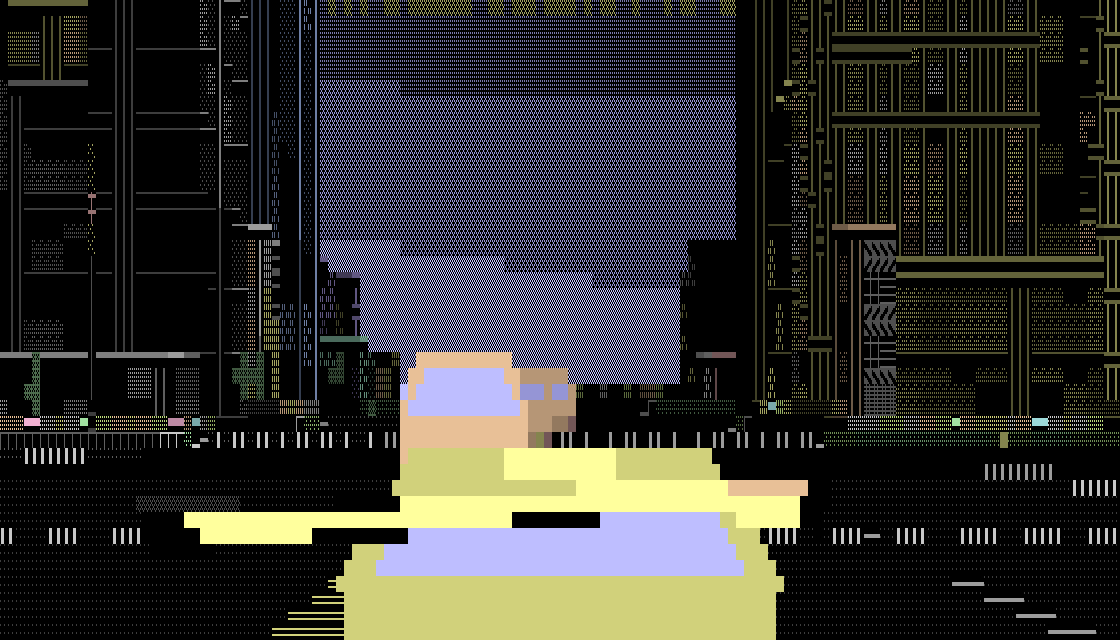
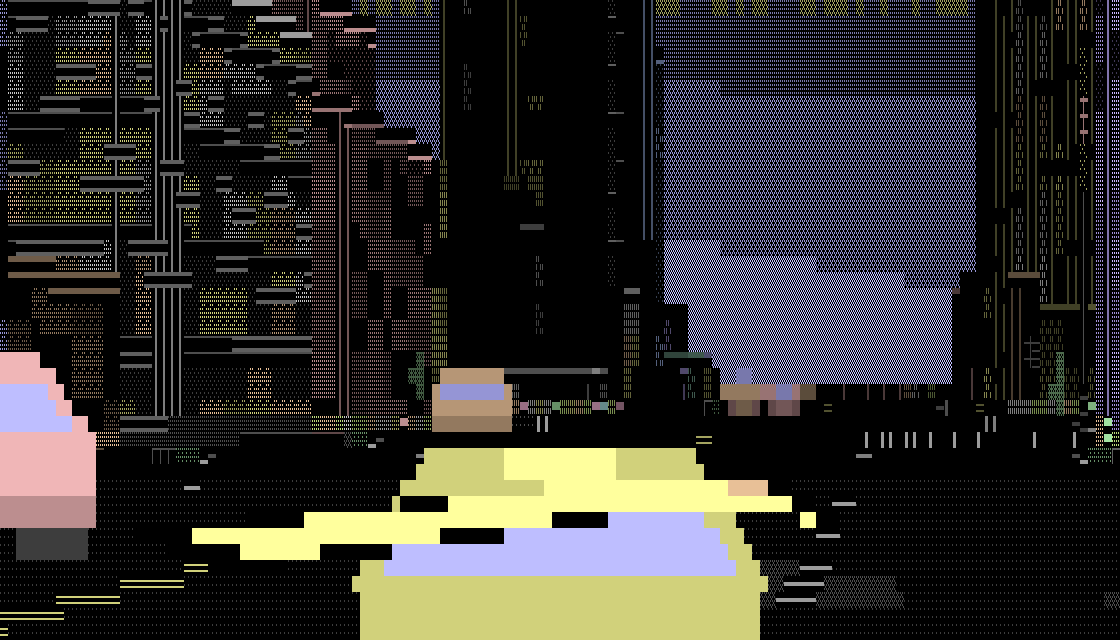
The next fare is at least a block away
It was four cells, which is the length of two cars: the circle for the next
job appeared on the pavement the cab was already stopped at, and the whole
job was "turn round".  It is a block now - `zone::BLOCK_PITCH`, the nominal
road-to-road spacing - and the drop-off is a block from the *pickup* rather
than from the cab, because both being far from the cab says nothing about
them being far from each other.

The range is checked after the spot is snapped to the pedestrian network
rather than before.  The snap moves a point by up to six cells and moves it
towards walkable ground rather than away from the cab, so two fares in sixty
landed inside the minimum that way.

AND IT COST THE AUTOPILOT ALL BUT ONE OF ITS FARES

Longer fares meant longer routes, and longer routes exposed something that
had been invisible.  A plan was thrown away whenever the car strayed three
cells from it - and the cab now pulls out to pass things, which is a lane's
width.  So every overtake invalidated the plan, the route was rebuilt from
wherever the car had swerved to, and a breadth-first search asked the same
question from two slightly different places answers it two different ways.

The cab wandered.  Measured on one city: 921 cells driven, 8,799 of 9,000
ticks spent travelling, and one completed fare in five minutes.  Found by
ablation - with the dodge switched off it managed six - which is the only
way I would have found it, because every part of it works.
[…]

diff --git a/crates/ascitty-core/src/sim.rs b/crates/ascitty-core/src/sim.rs
@@ -63,6 +63,25 @@ pub const TRAFFIC: usize = 12;
 pub const PEDS: usize = 48;
 /// Beyond this many cells, a pooled actor is recycled somewhere nearer.
 pub const RECYCLE: i32 = 34;
+/// How near the cab the next fare may be waiting, in cells.
+///
+/// A block.  It was four cells - the length of two cars - which puts the
+/// circle for the next job on the pavement you are already stopped at, so
+/// the whole job is "turn round".  A fare is somewhere you have to *drive*
+/// to, and the shortest distance that means anything on this grid is one
+/// block: [`crate::zone::BLOCK_PITCH`] is the nominal road-to-road spacing,
+/// an eight-cell block with a pavement each side and a road.
+pub const HAIL_NEAR: i32 = crate::zone::BLOCK_PITCH as i32;
+/// And how far, so the pickup is a short drive rather than a trek.
+pub const HAIL_FAR: i32 = HAIL_NEAR * 2;
+/// How far the drop-off has to be from the pickup, in cells.
+///
+/// A block again, and measured from the *pickup* rather than from the cab -
+/// which is the distance the passenger is paying for.  Both being far from
+/// the cab says nothing about them being far from each other: a pickup a
+/// block north and a drop-off a block and a half north is a fare of four
+/// cells.
+pub const FARE_MIN: i32 = HAIL_NEAR;
 /// Seconds on the clock at the start of a shift.
 pub const START_TIME: i32 = 60;
 /// Seconds a coin is worth.
@@ -521,6 +540,14 @@ impl Sim {
             // a pavement outright do miss - measured, often enough that the
             // fallback below was placing dropoffs in the middle of avenues.
             let Some((px, py)) = city.walk.nearest(x, y, 6) else { continue };
+            // The snap can pull the spot back towards the cab - up to six
+            // cells of it - so the range has to be checked *after* it and
+            // not before.  Two fares in sixty landed inside the minimum
+            // that way, which is the one place a player would notice: the
+            // circle for the next job on the pavement they are stopped at.
+            if (px - tx).abs() + (py - ty).abs() < min {
+                continue;
+            }
             // On the walking network *and* off the carriageway.  The two are
             // not the same test: an alley is road with no pavement beside
             // it, so people walk down the middle of one and it is marked
@@ -701,7 +728,7 @@ impl Sim {
     /// car can actually be; the coins are strung between those two, since
     /// they are collected by driving over them.
     pub fn hail(&mut self, city: &City) {
-        let (from, from_stop) = match self.kerb_near(city, 4, 14) {
+        let (from, from_stop) = match self.kerb_near(city, HAIL_NEAR, HAIL_FAR) {
             Some(v) => v,
             // Nowhere to stand within reach: rather than leave the shift
             // with no job at all, take any road cell.  The next tick tries
@@ -711,9 +738,23 @@ impl Sim {
                 None => return,
             },
         };
-        let (to, to_stop) = match self.kerb_near(city, 18, RECYCLE) {
+        // The drop-off, at least a block from the pickup as well as from the
+        // cab.  Several tries, because the constraint is on a pair and the
+        // dart only knows about one of them; the last candidate is kept if
+        // none of them is far enough, since a short fare is better than no
+        // fare.
+        let mut far = None;
+        for _ in 0..8 {
+            let Some(v) = self.kerb_near(city, HAIL_NEAR * 2, RECYCLE) else { break };
+            let d = (v.0 .0 - from.0).abs() + (v.0 .1 - from.1).abs();
+            far = Some(v);
+            if d >= FARE_MIN {
+                break;
+            }
+        }
+        let (to, to_stop) = match far {
             Some(v) => v,
-            None => match self.road_near(city, 18, RECYCLE) {
+            None => match self.road_near(city, HAIL_NEAR * 2, RECYCLE) {
                 Some(c) => (c, c),
                 None => return,
             },
@@ -2028,6 +2069,40 @@ mod tests {
                     "seed {seed}: a cab at the kerb cannot reach the passenger"
                 );
             }
+        }
+    }
+
+    /// A fare is somewhere you have to drive to.
+    ///
+    /// The pickup is at least a block from where the cab is standing, and
+    /// the drop-off at least a block from the pickup - the second measured
+    /// from the *pickup*, because that is the distance the passenger is
+    /// paying for and two places can both be far from the cab and next door
+    /// to each other.
+    #[test]
+    fn the_next_fare_is_at_least_a_block_away() {
+        for seed in [1u32, 7, 99, 4242] {
+            let city = City::generate(seed);
+            let mut sim = Sim::new(&city, seed);
+            let (mut near_cab, mut short_fare) = (0, 0);
+            for _ in 0..60 {
+                sim.hail(&city);
+                let fare = sim.fare.as_ref().expect("no fare");
+                let cab = (fixed::floor(sim.taxi.x), fixed::floor(sim.taxi.y));
+                let at = (fixed::floor(fare.from.0), fixed::floor(fare.from.1));
+                let to = (fixed::floor(fare.to.0), fixed::floor(fare.to.1));
+                if (at.0 - cab.0).abs() + (at.1 - cab.1).abs() < HAIL_NEAR {
+                    near_cab += 1;
+                }
+                if (to.0 - at.0).abs() + (to.1 - at.1).abs() < FARE_MIN {
+                    short_fare += 1;
+                }
+            }
+            // The pickup is a hard floor - it is what the dart is thrown at.
+            assert_eq!(near_cab, 0, "seed {seed}: {near_cab} fares within a block of the cab");
+            // The pair is a preference: eight tries at it, and a short fare
+            // is better than none.  Measured at zero on all four cities.
+            assert!(short_fare < 4, "seed {seed}: {short_fare} of 60 fares were shorter than a block");
         }
     }
 

diff --git a/crates/ascitty-core/src/cabbie.rs b/crates/ascitty-core/src/cabbie.rs
@@ -201,7 +201,7 @@ const CREEP: Fx = fixed::ratio(3, 4);
 /// Six cells is a second and a half at the speed it cruises, which is about
 /// as far ahead as a decision to change lanes is worth making: further out
 /// and it is dodging cars that will have moved by the time it arrives.
-const DODGE_LOOK: Fx = fixed::ratio(6, 1);
+const DODGE_LOOK: Fx = fixed::ratio(9, 2);
 /// Half the width of the corridor in front that counts as blocked.
 const DODGE_WIDE: Fx = fixed::ratio(11, 10);
 /// The most lock a dodge asks for, on top of whatever the lane wants.
@@ -212,7 +212,11 @@ const DODGE_WIDE: Fx = fixed::ratio(11, 10);
 /// avoid a parked van.
 const DODGE_LOCK: Fx = fixed::ratio(3, 10);
 /// How long a decision to go one way round is kept, in ticks at 30 Hz.
-const DODGE_HOLD: u32 = 24;
+///
+/// Four tenths of a second: long enough that the choice of side cannot
+/// dither, short enough that the cab is not still leaning at something it
+/// passed half a second ago.
+const DODGE_HOLD: u32 = 12;
 /// How close something has to be in front before the cab lifts off for it.
 const DODGE_CLOSE: Fx = fixed::ratio(5, 2);
 /// Below this, a car is not slow, it is stopped - and worth crossing the
@@ -247,10 +251,19 @@ const DODGE_ROOM: Fx = fixed::ratio(3, 2);
 /// than planning again: the aim point is then several cells away across
 /// whatever is between, and the car drives at it through a park.
 ///
-/// The cursor only ever sits one waypoint behind the car, so three cells is
+/// The cursor only ever sits one waypoint behind the car, so this is
 /// measured from somewhere meaningful.  It was six, which on a street grid
-/// is wide enough to be on the next street but one.
-const OFF_ROUTE: Fx = fixed::ratio(3, 1);
+/// is wide enough to be on the next street but one, and then three, which
+/// turned out to be narrower than a deliberate lane change.
+///
+/// Five, because the cab now *pulls out* to pass things.  A dodge is a
+/// lane's width and at three cells it invalidated the plan, so the route was
+/// thrown away and rebuilt from wherever the car had swerved to - and a
+/// breadth-first search asked the same question from two slightly different
+/// places answers it two different ways.  The cab wandered: measured, 921
+/// cells driven and one completed fare in five minutes, against five fares
+/// once a plan could survive an overtake.
+const OFF_ROUTE: Fx = fixed::ratio(5, 1);
 
 /// What the road asks of the car where it currently is.
 struct Track {
@@ -1278,5 +1291,6 @@ mod tests {
         }
     }
 }
+
 
 

diff --git a/README.md b/README.md
@@ -1,6 +1,6 @@
 # ASCITTY — a raytraced ASCII city
 
-**v0.7.1 · 19 August 2026**
+**v0.7.2 · 19 August 2026**
 
 A city built entirely out of typeable characters, rendered in real time, on a
 colour terminal and on a **Commodore Plus/4** — and a taxi game inside it.
@@ -17,13 +17,13 @@ the same string.
 
 *Street level in block elements and colour, which is what you actually get.
 `ascitty --shot 520 --size 140x40 --seed 99 --tour --walk --sky 0 --day 0` —
-**v0.7.1**, 19 Aug 2026.*
+**v0.7.2**, 19 Aug 2026.*
 
 ## Watch it drive itself
 
 ![The cab driving itself down a street, traffic ahead of it, the fare marker glowing on the pavement](docs/media/demo.gif)
 
-*Eight seconds of `make demo`, recorded by `make gif` — **v0.7.1**, 19 Aug
+*Eight seconds of `make demo`, recorded by `make gif` — **v0.7.2**, 19 Aug
 2026. Small and short because a GIF is a whole frame every frame; `make
 cast` records the same run as an asciinema file, which stays sharp at any
 size and is a tenth of the bytes.*
@@ -45,7 +45,7 @@ make gif       # ...or to docs/media/demo.gif
 
 ![The taxi from behind, chequer band along its flank, a saloon alongside on the avenue](docs/media/drive.png)
 
-*The chase camera, from `make demo` at `--sky 3` — **v0.7.1**, 19 Aug 2026.
+*The chase camera, from `make demo` at `--sky 3` — **v0.7.2**, 19 Aug 2026.
 The cab's
 heading and the camera's are not the same thing: the boom lags a turn by a
 few frames, so a slide is watched from outside the spin.*
@@ -79,7 +79,7 @@ It starts in the first one.
 
 ![The city from above the tallest roof: towers seen down their faces, rooftops and fire escapes below](docs/media/copter.png)
 
-*The copter, from `--copter --haze 1 --sky 5` — **v0.7.1**, 19 Aug 2026. How
+*The copter, from `--copter --haze 1 --sky 5` — **v0.7.2**, 19 Aug 2026. How
 far
 down it looks is worked out from how high it is, how far the haze lets it
 see and how many rows the frame has, rather than being a fixed tilt — see
@@ -95,6 +95,7 @@ A run is a shift on the clock, and the clock is the whole of the pressure.
 | A coin | +2 s, +$1, **and three seconds of boost** |
 | Picking up, and setting down | +12 s each |
 | The fare itself | $3 a cell of distance, plus $10 |
+| How far away | the pickup is at least a block from the cab, and the drop-off at least a block from the pickup |
 | Petrol | −$1 a second, for as long as the shift lasts |
 | Combo | consecutive things hit without touching a wall; a car pays `2 × combo`, a lamp post pays `combo` |
 
@@ -224,7 +225,7 @@ prints them.
 
 ![The cab at a green sunset, the sky pale at the horizon and darkening above it](docs/media/sunset.png)
 
-*`--sky 8 --day 0` — **v0.7.1**, 19 Aug 2026. The green sunset, held still
+*`--sky 8 --day 0` — **v0.7.2**, 19 Aug 2026. The green sunset, held still
 for the picture.*
 
 A phase change does not cross-fade. Two hues cannot be mixed in a palette
@@ -328,7 +329,7 @@ all:
 ```
 
 *`ascitty --shot 520 --size 92x20 --seed 99 --tour --walk --mode ascii` —
-**v0.7.1**, 19 Aug 2026. The mode the name is about, and the one that runs
+**v0.7.2**, 19 Aug 2026. The mode the name is about, and the one that runs
 anywhere a terminal runs.*
 
 ## Downloads
@@ -386,7 +387,7 @@ make walk     # watch the camera walk instead
 make run4     # play the Plus/4 build in xplus4
 make demo4    # ...and leave it alone; it drives itself
 
-make test     # 296 tests, about half a second
+make test     # 297 tests, about half a second
 make check    # the gate: tests, both builds, and both actually rendering
 make bench    # frames a second on this machine
 
@@ -537,10 +538,10 @@ place to start.
 
 ```sh
 $ ascitty --version
-ascitty 0.7.1 (seed 0xa5c1771e)
+ascitty 0.7.2 (seed 0xa5c1771e)
 ```
 
-Releases are tagged `v0.7.1` and so on, and every picture in this README
+Releases are tagged `v0.7.2` and so on, and every picture in this README
 says which build drew it. Regenerating them is `make shot` and `make gif`;
 the seed is fixed, so the same tag renders the same frames.
 
@@ -549,7 +550,7 @@ the seed is fixed, so the same tag renders the same frames.
 ![The Plus/4 build running in VICE](docs/media/plus4.png)
 
 *The `.prg` booted in VICE and photographed by `tools/viceshot.sh` — a
-40×25 city on a 1.76 MHz 7501. **v0.7.1**, 19 Aug 2026.*
+40×25 city on a 1.76 MHz 7501. **v0.7.2**, 19 Aug 2026.*
 
 `build/ascitty.prg` and `build/ascitty.d64` are the real thing: a 40×25
 city, in colour, on a 1.76 MHz 7501, with a character set generated on a
@@ -697,7 +698,7 @@ Everything is indexed at **[docs/index.md](docs/index.md)**.
 
 Working: the renderer, all three cameras, the city generator with six
 building archetypes, the procedural font, the weather, the driving physics,
-the fare loop, the terminal front end and the Plus/4 build. 296 tests.
+the fare loop, the terminal front end and the Plus/4 build. 297 tests.
 
 Not yet: sub-cell rooflines, proper roof surfaces, scoring and grades,
 sprites and driving on the Plus/4, and the assembly inner loop that would

diff --git a/docs/driving.md b/docs/driving.md
@@ -398,6 +398,41 @@ carriageway against 2; overtaking merely-slower traffic on a two-cell street
 - where the only room is the oncoming lane - took the right-hand-lane figure
 from 85 per cent to 57.
 
+## 5b. How far away the next fare is
+
+At least a block, and the block is [`zone::BLOCK_PITCH`] - the nominal
+road-to-road spacing, an eight-cell block with a pavement each side and a
+road. It was four cells, which is the length of two cars: the circle for the
+next job appeared on the pavement the cab was already stopped at, and the
+whole job was "turn round".
+
+The drop-off is a block from the **pickup**, not from the cab. Both being far
+from the cab says nothing about them being far from each other - a pickup a
+block north and a drop-off a block and a half north is a fare of four cells -
+so it is chosen with several tries against that constraint, and a short fare
+is kept if none of them satisfies it, because a short fare is better than no
+fare.
+
+The range is checked *after* the spot is snapped to the pedestrian network,
+not before. The snap moves the point by up to six cells, and it moves it
+towards walkable ground rather than away from the cab: two fares in sixty
+landed inside the minimum that way.
+
+### It cost the autopilot most of its fares, once
+
+Longer fares meant longer routes, and longer routes exposed something that
+had been invisible: a plan was thrown away whenever the car strayed three
+cells from it, and the cab now *pulls out to pass things*, which is a lane's
+width. So every overtake invalidated the plan, the route was rebuilt from
+wherever the car had swerved to, and a breadth-first search asked the same
+question from two slightly different places answers it two different ways.
+
+The cab wandered. Measured on one city: 921 cells driven, 8,799 of 9,000
+ticks spent travelling, and **one** completed fare in five minutes. Widening
+the tolerance to five cells - wider than a deliberate lane change - took it
+to five fares, and shortening the dodge's commitment from eight tenths of a
+second to four took the wandering out of the rest.
+
 ## 6. Where a fare stands
 
 Both ends of a job are on the **pedestrian** network — pavement, plaza or

diff --git a/docs/lab-report.md b/docs/lab-report.md
@@ -588,7 +588,7 @@ exists for any structure to exceed.
 
 ### D. Verification
 
-296 assertions execute in approximately 0.2 s. The acceptance gate
+297 assertions execute in approximately 0.2 s. The acceptance gate
 additionally rebuilds both targets, regenerates the baked headers, renders a
 host frame, and boots the target program in an emulator to confirm
 non-trivial output. A target program that compiles is not evidence that it
